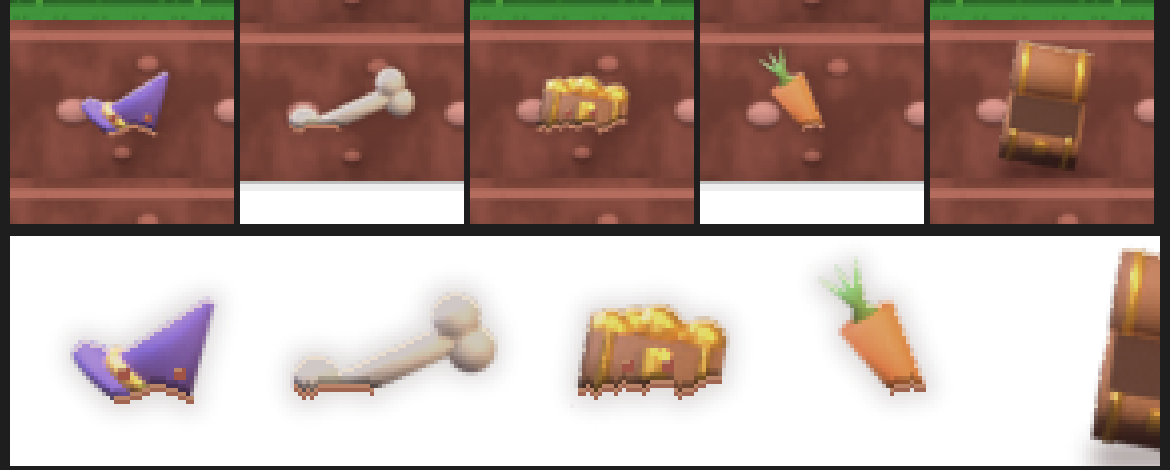
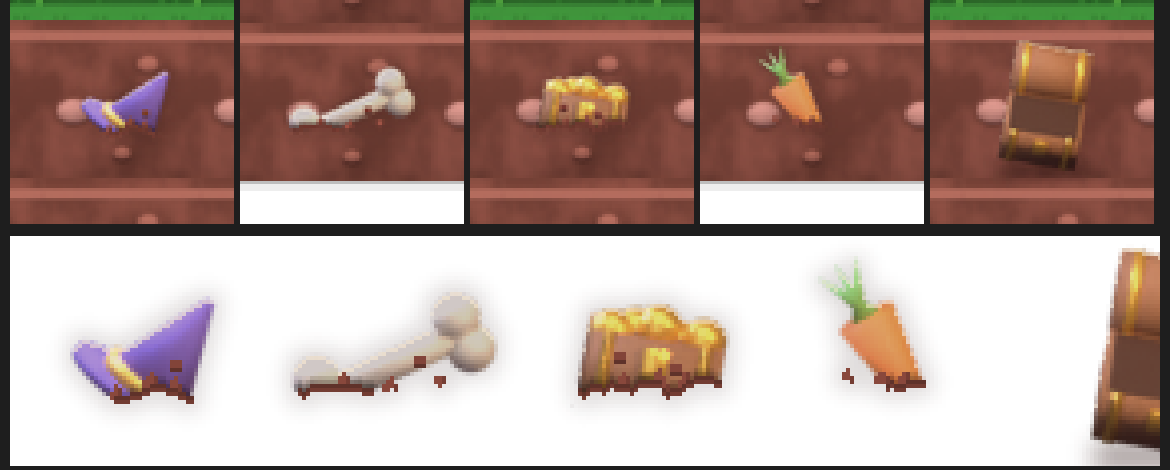
Mila: begraven proef 4, donkere aardrand met kruimels in plaats van lichte lip (moet Daan)
Claude-Session: https://claude.ai/code/session_01RMWUykMj2wJFFXrUYfkoXG

diff --git a/ontwerp/steam/begraven/maak_blad.py b/ontwerp/steam/begraven/maak_blad.py
@@ -3,8 +3,8 @@ Uit: producten/steam-hol/godot/kunst/3d/begraven.png (+ .import) en begraven.jso
 Blad: 5 cellen van 64 x 64 bladpixels naast elkaar = 16 x 16 spelpixels per cel bij px 4 (zoals holbord).
   hoed, bot, kist, wortel: gedempt (20 procent minder verzadigd, 15 procent naar de aarde, bot 12 procent minder wit),
     lichte rand van 1 px bovenaan, het onderste derde WEGGESNEDEN met een bultige rand: daar is de cel doorzichtig,
-    zodat de echte aarde van het spel er doorheen komt. Op de rand een zachte lichte lip en een schaduwrandje op het
-    stuk, en drie kluitjes aarde op het stuk. Holletje 15 procent alleen om het zichtbare deel.
+    zodat de echte aarde van het spel er doorheen komt. Op de rand een donkere aardrand (proef 4, Daan 17 nov) met drie
+    kruimels over de snede en een schaduwrandje op het stuk, en kluitjes aarde op het stuk. Holletje 15 procent alleen om het zichtbare deel.
   kist_open: dezelfde kist na het doorgraven, deksel naar achteren open, leeg (donker van binnen). Niet begraven,
     want die cel is dan gang; wel dezelfde demping, en een zachte schaduw eronder.
 Bron: stukken3-blad-4x.png = BLAD=1 <bpy-python> begraven.py stukken3-blad-4x.png
@@ -40,16 +40,27 @@ def begraaf(rgb, al):
         y = int(round(snij + bult[k])); rand[x] = y
         al[y:, x] = 0                                                   # weg: hier komt de echte aarde door
         if dek[y:y + 2, x].any():
-            rgb[y, x] = AARDE * 0.62 + LIP * 0.40; al[y, x] = 1           # lip (1 px bij px 4 is een kwart spelpixel,
-            if y + 1 < 64: rgb[y + 1, x] = AARDE * 0.8 + LIP * 0.2; al[y + 1, x] = 1   # dus 2 rijen: lip en overgang)
+            rgb[y, x] = AARDE * 0.70; al[y, x] = 1                       # donkere aardrand (Daan 17 nov 00:35: de lichte lip
+            if y + 1 < 64: rgb[y + 1, x] = AARDE * 0.84; al[y + 1, x] = 1   # las als geel stippellijntje), 2 rijen: rand en overgang
         for d in (1, 2):
-            if y - d >= 0 and dek[y - d, x]: rgb[y - d, x] *= 0.68 if d == 1 else 0.82   # schaduw op het stuk
-    ks = [x for x in kol if dek[:rand[x] - 4, x].any()]
-    for _ in range(2):                                                  # kluitjes van 3 x 3 bladpixels
-        x = ks[rng.integers(len(ks))]; y = rand[x] - 4 - rng.integers(0, 4)
+            if y - d >= 0 and dek[y - d, x]: rgb[y - d, x] *= 0.74 if d == 1 else 0.88   # schaduw op het stuk
+    zicht = [x for x in kol if dek[:rand[x] - 1, x].any()]
+    plek = np.linspace(0, len(zicht) - 1, 5)[[1, 2, 3]].astype(int) + rng.integers(-2, 3, 3)
+    for k, j in enumerate(plek):                                        # drie kruimels OVER de snede (half op stuk, half op aarde)
+        x = zicht[int(np.clip(j, 0, len(zicht) - 1))]; y = rand[x]
+        w = 3 if k != 1 else 4
+        for dx in range(w):
+            xx = x + dx
+            if xx >= 64 or xx not in rand: continue
+            y0 = rand[xx] - (2 if dx in (0, w - 1) else 3)           # bultje aarde dat op de snede ligt, geen druppel eronder
+            rgb[y0:rand[xx], xx] = AARDE * (1.0 if dx < w - 1 else 0.86); al[y0:rand[xx], xx] = 1
+            rgb[rand[xx], xx] = AARDE * 0.70
+    ks = [x for x in kol if dek[:rand[x] - 5, x].any()]
+    for _ in range(2):                                                  # kluitjes van 3 x 3 bladpixels op het stuk, zonder lichte top
+        x = ks[rng.integers(len(ks))]; y = rand[x] - 5 - rng.integers(0, 4)
         if y < 1 or x + 2 >= 64 or not dek[y:y + 3, x:x + 3].all(): continue
-        rgb[y:y + 3, x:x + 3] = np.clip(AARDE * 1.18, 0, 1); al[y:y + 3, x:x + 3] = 1
-        rgb[y, x:x + 2] = AARDE * 0.62 + LIP * 0.40
+        rgb[y:y + 3, x:x + 3] = AARDE * 0.95; al[y:y + 3, x:x + 3] = 1
+        rgb[y + 2, x:x + 3] = AARDE * 0.7
     return rgb, al
 
 def holletje(al, sterk):

diff --git a/ontwerp/steam/begraven/LEESMIJ.md b/ontwerp/steam/begraven/LEESMIJ.md
@@ -33,3 +33,9 @@ Vraag van Daan (16 nov 20:50, voor de demo van 18 dec, geen haast): op 1920 is i
 - Demping en begraven zitten er al in: het onderste derde is in de cel **doorzichtig** (met lip en schaduwrandje erop), dus de echte aarde van het spel komt er doorheen, waar het ook ligt. Holletje 15 procent zit in de alfa.
 - `kist_open`: dezelfde kist na het doorgraven, deksel helemaal open en plat naar achteren, kist 38 graden naar je toe gekanteld zodat je van boven het lege donkere binnenste ziet; niet begraven (die cel is dan gang), zachte schaduw eronder. Eerst met het deksel rechtop: GEZIEN op 1x, las als een tweede kist of ton, weggegooid. Eerlijk: hij is nu hoger dan de dichte kist omdat je in hem kijkt.
 - Gemaakt met: `BLAD=1 <bpy-python> begraven.py stukken3-blad-4x.png` en daarna `python3 maak_blad.py <strook-10min.png>`. Proef in de echte opname: `blad-echt-1x.png` en `blad-proef.png` (boven 4x uit de 1x, de vijfde = na het doorgraven; onder het blad zelf).
+
+## Proef 4 (17 nov ±00:50 UTC): moet Daan (00:35), donkere aardrand in plaats van de lichte lip
+- In `maak_blad.py`: de lichte lip is weg (las op 4x en in de echte opname op 3x als geel stippellijntje, waardoor de stukken afgeknipt leken). Nu een **donkere aardrand** (aarde maal 0,70, daaronder een overgang van 0,84) en **drie kruimels over de snede**: bultjes aarde die op de rand liggen, half over het stuk. Kluitjes op het stuk zonder lichte top. Schaduwrandje op het stuk iets zachter (0,74).
+- Eerst geprobeerd: kruimels die ook onder de rand doorliepen. GEZIEN, lazen als druppels die naar beneden hangen; weggehaald.
+- `begraven.png` opnieuw gemaakt (zelfde vijf cellen en json). Proef: `proef4-blad-4x.png` (= `blad-proef.png`) en `blad-echt-1x.png`.
+- GEZIEN met Read, boven 4x uit de echte 1x: geen gele lijn meer, hoed, bot, kist en wortel zitten in de grond en de rand valt weg in de aarde. Eerlijk: de kruimels zijn op 1x maar een zweem; het werk doet nu de donkere snede.
